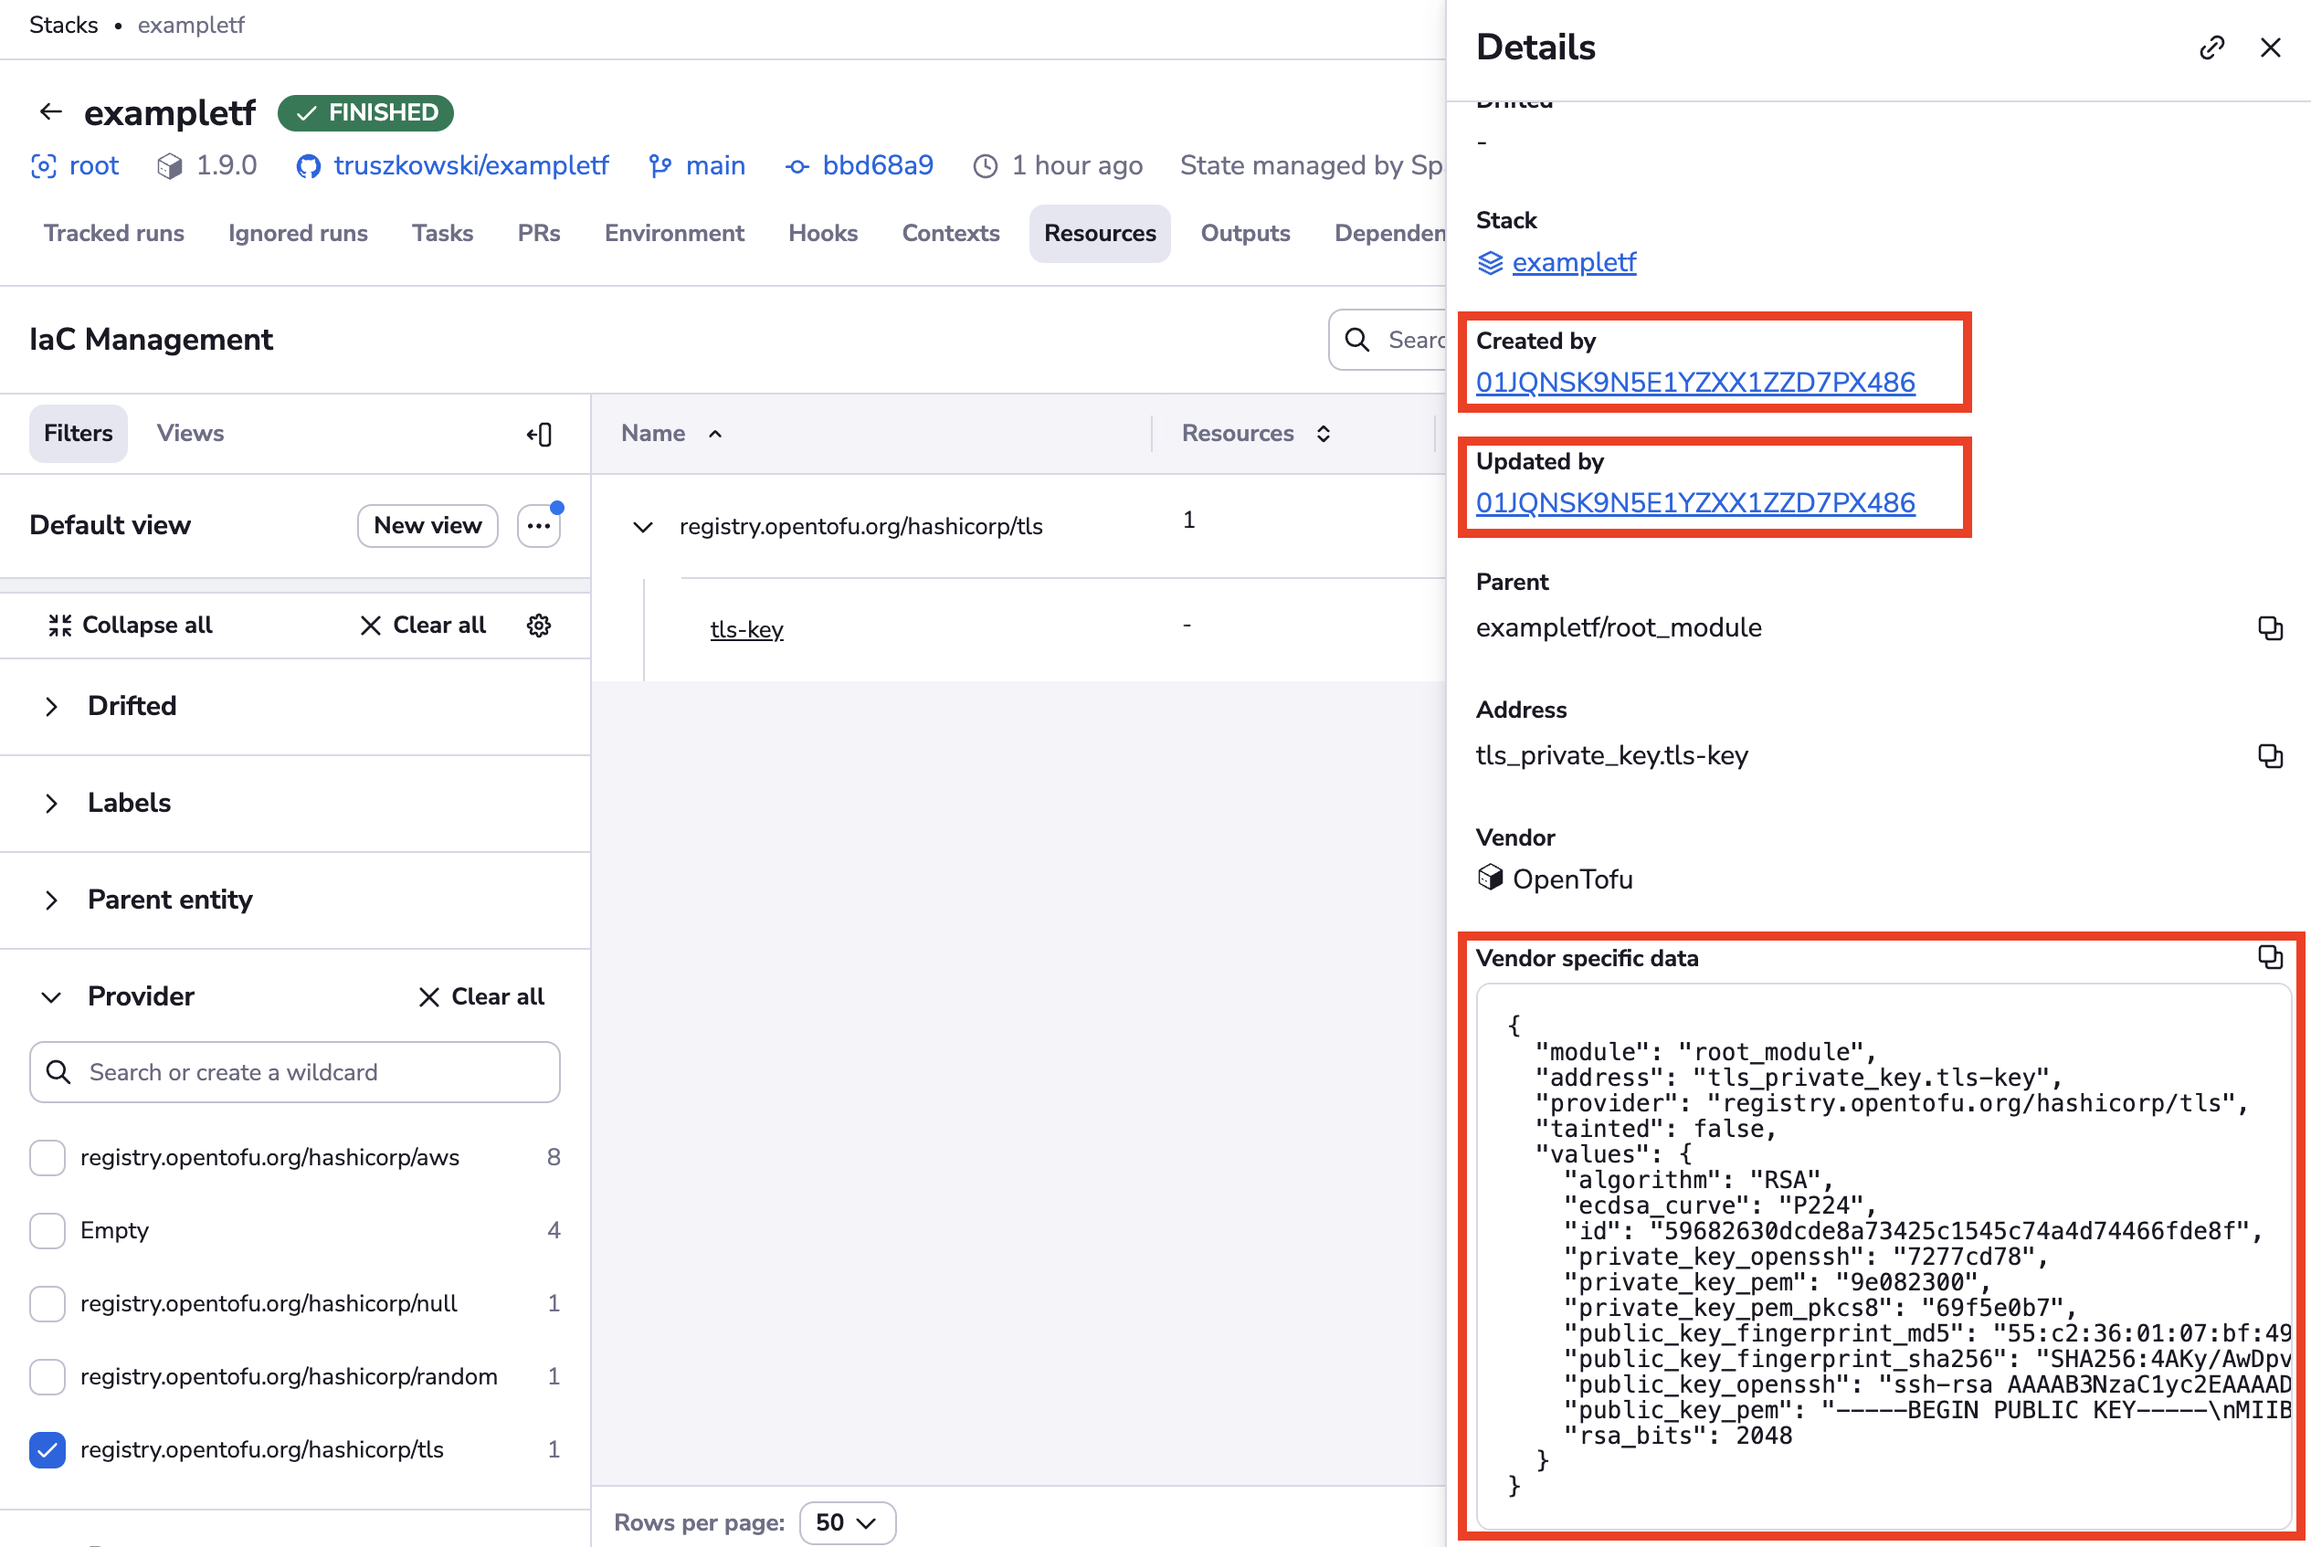
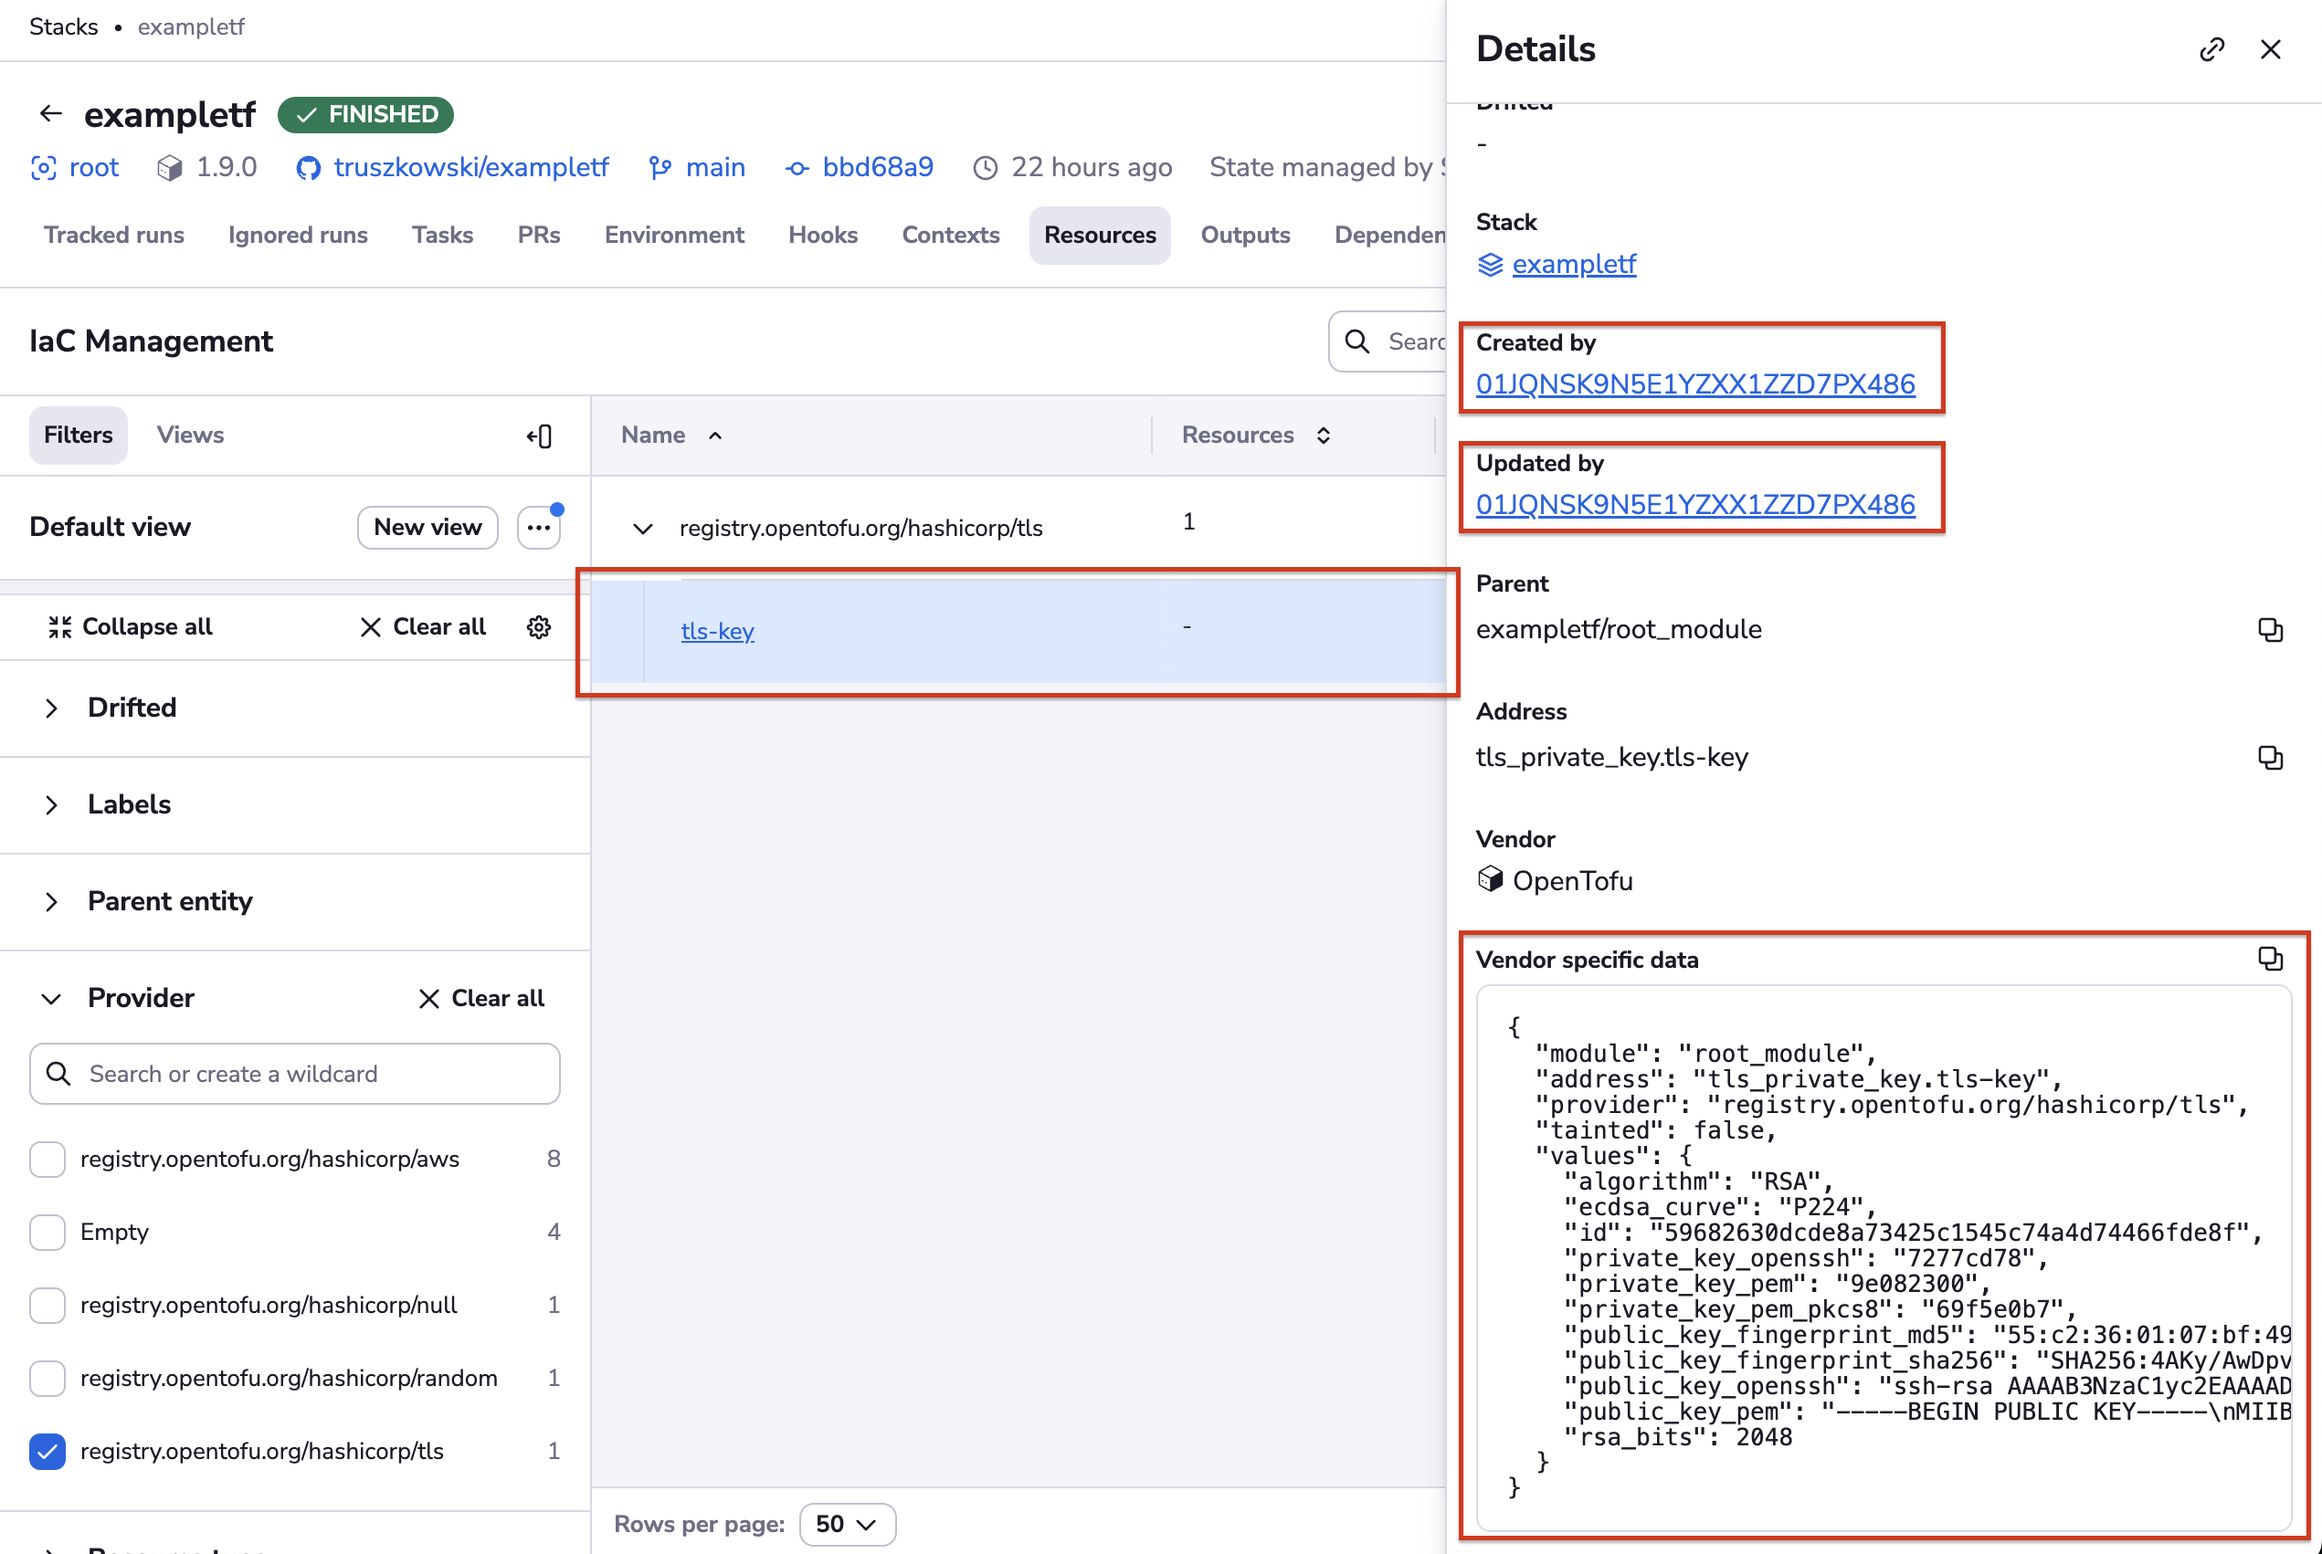
fix: adjustments

diff --git a/docs/concepts/resources/README.md b/docs/concepts/resources/README.md
@@ -6,11 +6,11 @@ The Resources view is the result of multiple months of meticulous work understan
 
 ## Stack-level resources
 
-This screen shows you the stack-level resources view. By default, resources are shown on the list.
+This screen shows you the stack-level resources view. By default, resources are grouped to help you understand the structure of each of your infrastructure projects.
 
 ![](<../../assets/screenshots/stack-by-stack.png>)
 
-Resources can be grouped by provider and type. Let's group one of our small stacks by provider:
+Resources can be grouped by provider and type. Let's group by provider:
 
 ![](<../../assets/screenshots/stack-by-provider.png>)
 
@@ -22,11 +22,9 @@ Let's now take a look at this one:
 
 ![](<../../assets/screenshots/stack-by-provider-filter-tls-details.png>)
 
-The panel that is now showing on the right hand side of the Resources view shows the details of a single resource, which is now highlighted using a light blue overlay. On this panel, we see two noteworthy things.
+The panel that is now showing on the right hand side of the Resources view shows the details of a single resource, which is now highlighted using a blue background color. On this panel, we see two noteworthy things.
 
-Starting with the lower right hand corner, we have the vendor-specific representation of the resource. Note how for security purposes all string values are sanitized. In fact, we never get to see them directly - we only see first 7 characters of their checksum. If you know the possible value, you can easily do the comparison. If you don't, then the secret is safe. As a side note, we do not need to sanitize anything with Pulumi because the team there did an exceptional job with regards to secret management:
-
-![](<../../assets/screenshots/resources-pulumi-details.png>)
+Starting with the lower right hand corner, we have the vendor-specific representation of the resource. Note how for security purposes all string values are sanitized. In fact, we never get to see them directly - we only see first 7 characters of their checksum. If you know the possible value, you can easily do the comparison. If you don't, then the secret is safe.
 
 More importantly, though, you can drill down to see the runs that either created, or last updated each of the managed resources. Let's now go back to our `tls-key`, and click on the ID of the run shown in the _Updated by_ section.
 This will take you to the run in question:
